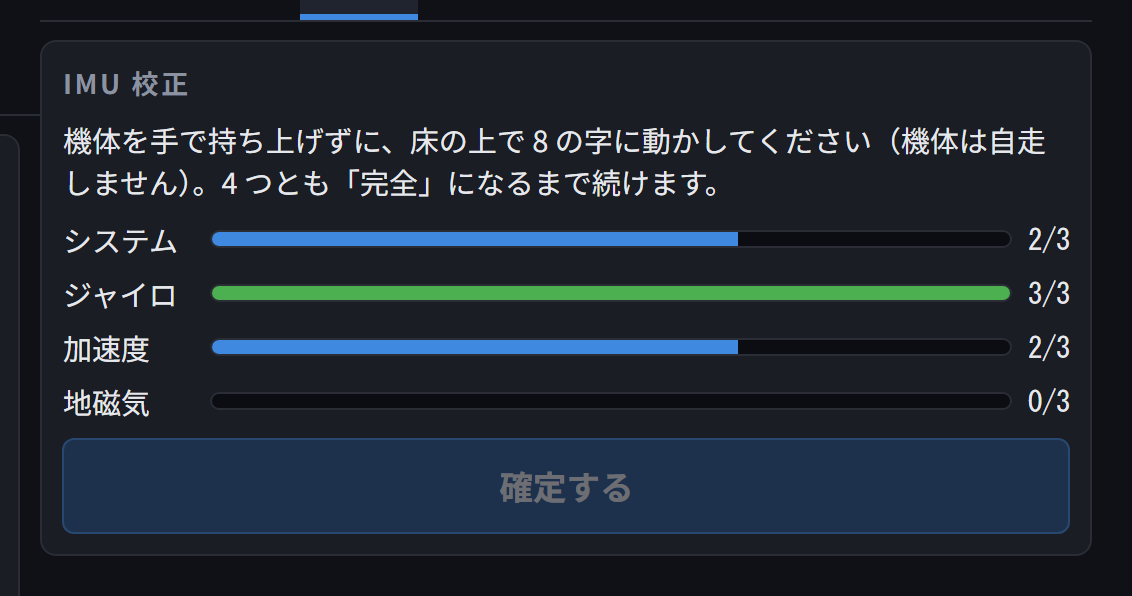
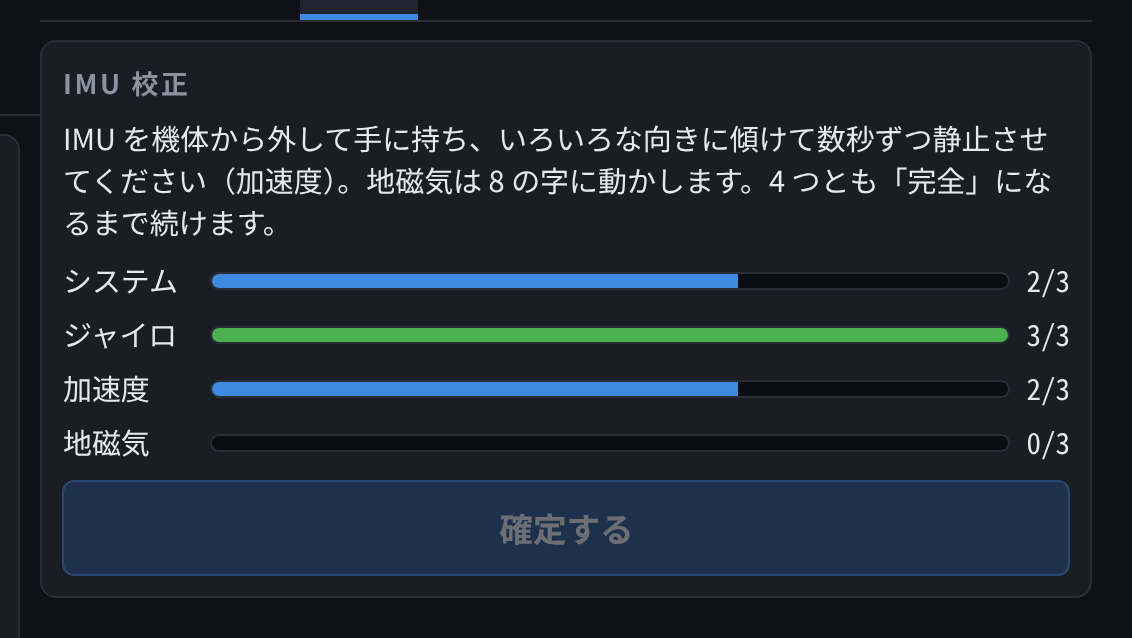
fix(webui): IMU 校正の案内を IMU を外して傾ける手順に直す
図解の s40-imu を撮り直し、手押しページの追記で溢れた分を詰めた。

diff --git a/docs/manual/index.html b/docs/manual/index.html
@@ -1085,7 +1085,7 @@
       <h3>IMU</h3>
       <figure class="shot" data-shot="s40-imu" style="margin-top:1.5mm"><figcaption>IMU の校正</figcaption></figure>
       <ol class="legend one" data-shot="s40-imu" style="margin-top:1.5mm">
-        <li data-n="1"><b>校正の状態</b>システム・ジャイロ・加速度・地磁気。人が機体を床の上で 8 の字に動かす（機体は自走しない）</li>
+        <li data-n="1"><b>校正の状態</b>システム・ジャイロ・加速度・地磁気。IMU を機体から外して手に持ち、いろいろな向きに傾けて数秒ずつ静止させる（加速度）／8 の字に動かす（地磁気）</li>
         <li data-n="2"><b>確定する</b>4 つとも 3/3 になったら押せる</li>
       </ol>
     </div>
@@ -1222,9 +1222,8 @@
     </div>
   </div>
   <ul class="dots">
-    <li><b>「再開する」を押しても機体は動き出しません。</b>走らせるには改めて <span class="ui">走行</span>（または該当の操作）を押します。手で押して位置が変わっているので、その後の走行は経路を計画し直します。</li>
-    <li>手押しの間に、暴走と判定されて非常停止に落ちることはありません（ボタンを戻したあとは通常どおり判定します）。</li>
-    <li><b>手押しの間に ESP32 との通信が切れたとき</b>は、ウィンドウに「ESP32 との通信が切れているため、非常停止ボタンの状態が分かりません。ボタンを戻しても解除できません」と出ます。フォルトが消えると文言も消えます。</li>
+    <li><b>「再開する」を押しても機体は動き出しません。</b>走らせるには改めて <span class="ui">走行</span> を押します。位置が変わったので、その後の走行は経路を計画し直します。</li>
+    <li>手押しの間に、暴走と判定されて非常停止に落ちることはありません（ボタンを戻したあとは通常どおり判定します）。<b>ESP32 との通信が切れたとき</b>は、ボタンの状態が分からず解除できない旨がウィンドウに出ます。</li>
   </ul>
   <div class="ref push">詳しくは：使い方.md §3-5「手押しからの戻り方」</div>
 </section>

diff --git a/th_ws/web_ui/src/i18n/calib.js b/th_ws/web_ui/src/i18n/calib.js
@@ -70,7 +70,7 @@ export const S40_RETRY_FAILED_RUN = '走行できませんでした。'
 export const S40_START_REJECTED = '再走行を開始できませんでした'
 
 // ── IMU ──────────────────────────────────────────────────
-export const S40_IMU_GUIDE = '機体を手で持ち上げずに、床の上で 8 の字に動かしてください（機体は自走しません）。4 つとも「完全」になるまで続けます。'
+export const S40_IMU_GUIDE = 'IMU を機体から外して手に持ち、いろいろな向きに傾けて数秒ずつ静止させてください（加速度）。地磁気は 8 の字に動かします。4 つとも「完全」になるまで続けます。'
 export const S40_IMU_PARTS = { sys: 'システム', gyro: 'ジャイロ', accel: '加速度', mag: '地磁気' }
 export const S40_IMU_DONE = 'IMU の校正が完了しました。'
 export const S40_IMU_COMMIT = '確定する'

diff --git a/docs/plan/spec/mockup/index.html b/docs/plan/spec/mockup/index.html
@@ -1691,7 +1691,7 @@ table.lst.basis tr.ng td{background:#2a1c0a}
     <div class="tabpane" id="r40c">
     <div class="card">
       <h3>IMU 校正</h3>
-      <div class="sm mb">機体を手で持ち上げずに、床の上で 8 の字に動かしてください（機体は自走しません）。4 つとも「完全」になるまで続けます。</div>
+      <div class="sm mb">IMU を機体から外して手に持ち、いろいろな向きに傾けて数秒ずつ静止させてください（加速度）。地磁気は 8 の字に動かします。4 つとも「完全」になるまで続けます。</div>
       <div class="sm" style="display:grid;gap:6px">
         <div class="row"><span style="width:4.5em">システム</span><div class="bar grow"><i style="width:66%"></i></div><span class="mono">2/3</span></div>
         <div class="row"><span style="width:4.5em">ジャイロ</span><div class="bar grow ok"><i style="width:100%"></i></div><span class="mono">3/3</span></div>

diff --git a/docs/manual/img/shots.js b/docs/manual/img/shots.js
@@ -2176,7 +2176,7 @@ window.SHOTS = {
   "w": 739
  },
  "s40-imu": {
-  "h": 298,
+  "h": 319,
   "marks": [
    {
     "h": 102.0,
@@ -2184,7 +2184,7 @@ window.SHOTS = {
     "pos": "l",
     "w": 503.5,
     "x": 31.5,
-    "y": 109.2
+    "y": 130.2
    },
    {
     "h": 48.0,
@@ -2192,7 +2192,7 @@ window.SHOTS = {
     "pos": "l",
     "w": 503.5,
     "x": 31.5,
-    "y": 219.2
+    "y": 240.2
    }
   ],
   "w": 566

diff --git a/docs/使い方.md b/docs/使い方.md
@@ -1017,7 +1017,8 @@ docker exec th_robot bash -c 'P=$(pgrep -f "lib/dr_spaam_ros/dr_spaam_ros" | hea
   `ros2 param set /calib_runner calib_linear_tolerance_ratio 0.05` のように入れる。
 - 中断・非常停止・フォルト・モードが変わったとき: 機体はその場で止まり、適用していた補正は元に戻り、**確定しない**。
 
-**IMU（進捗バーのみ）**: 「開始」→ **人が機体を 8 の字に動かす**（機体は自走しない）。システム・ジャイロ・加速度・地磁気が
+**IMU（進捗バーのみ）**: 「開始」→ **IMU を機体から外して手に持ち、いろいろな向きに傾けて数秒ずつ静止させる**（加速度）。
+**地磁気は 8 の字に動かす**（機体は自走しない）。システム・ジャイロ・加速度・地磁気が
 全部 3/3 になると自動で完了し、「確定する」を押す。
 
 **LiDAR 死角（ロボットは動かない。Step 表示は直進・旋回と同じ）**
